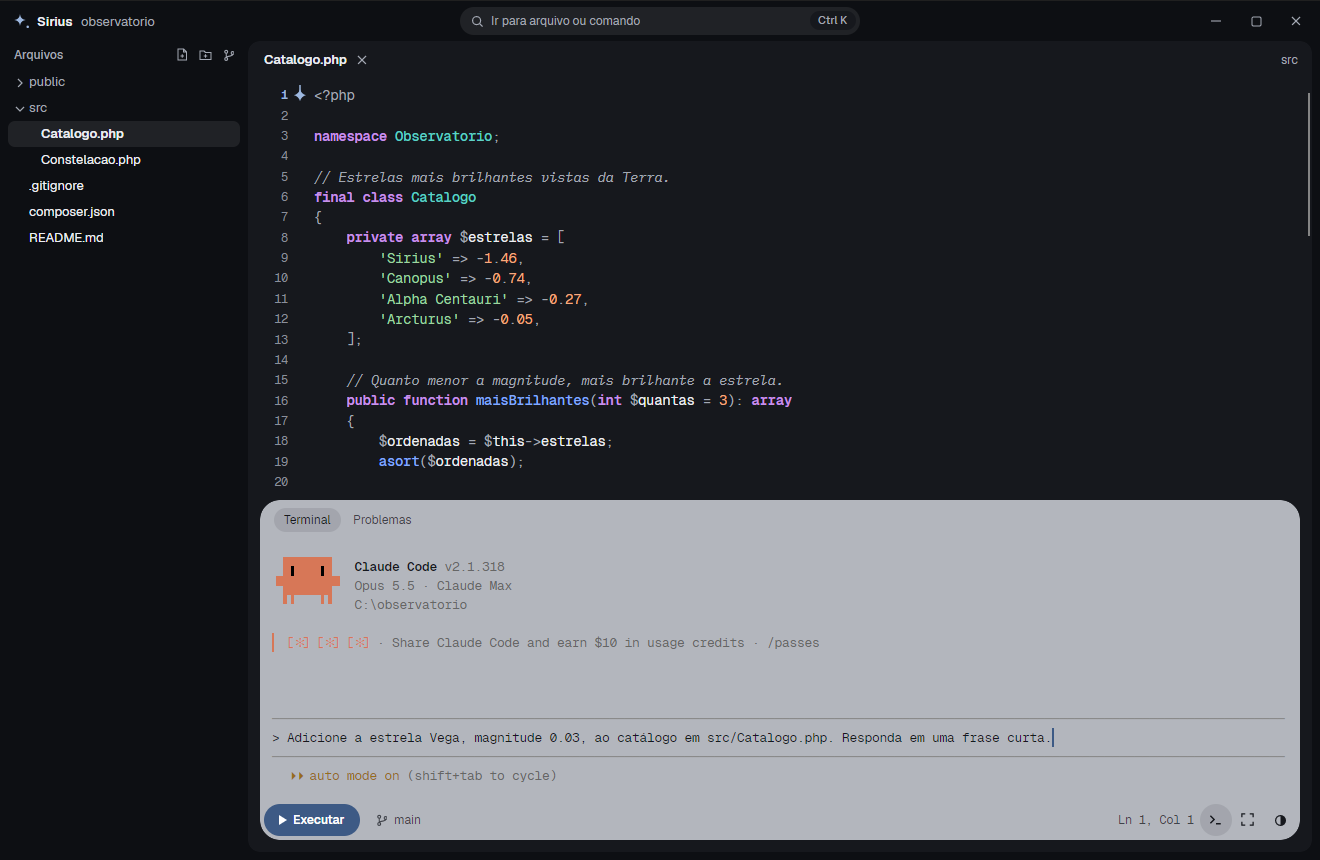
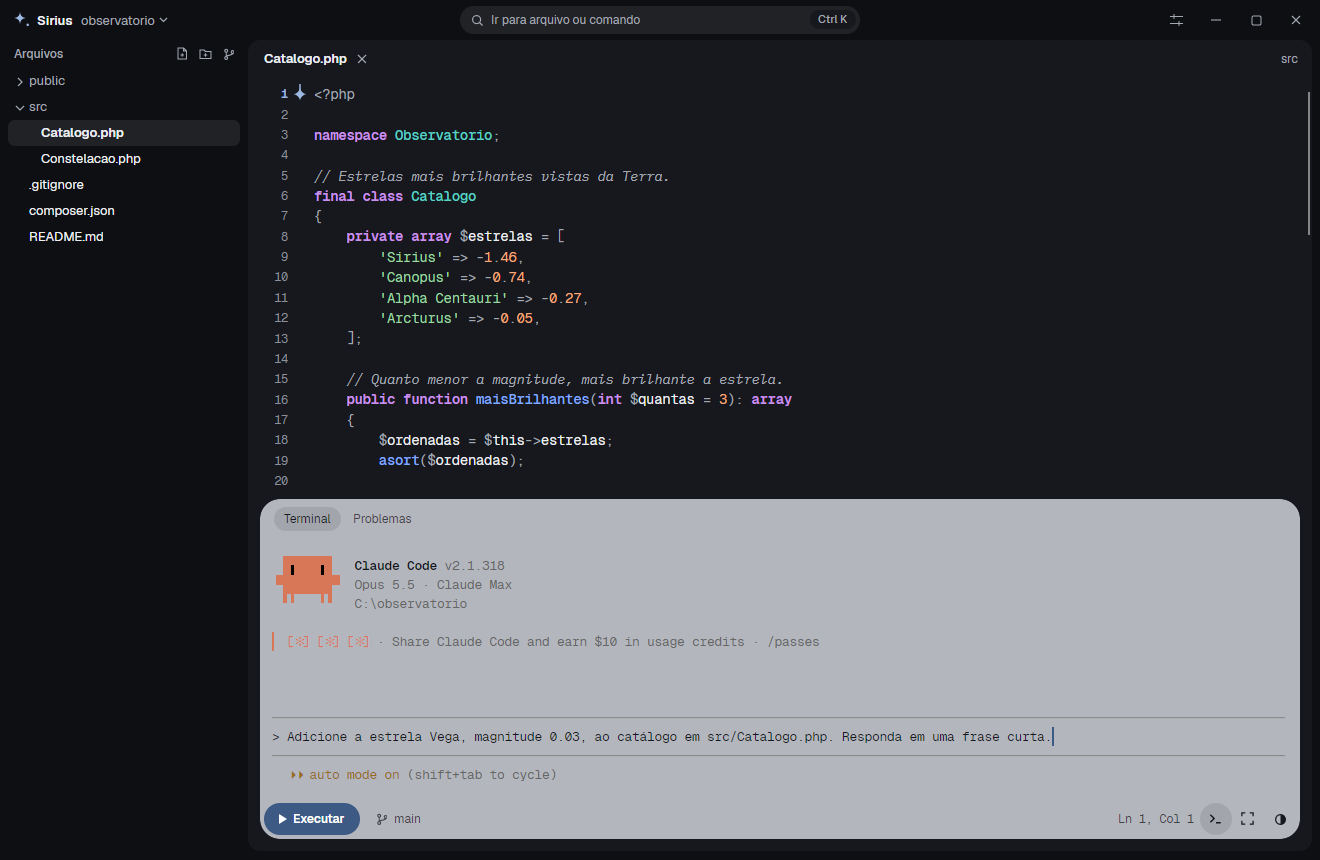
Prints novos, prévia do GitHub e textos do site e do README
Os prints mostram a interface de hoje: o botão de ajustes no topo, a pilha
de chamadas e uma expressão vigiada na depuração. A janela desenhada no site
ganhou os dois. Os textos falam de conflitos, condição, vigiar, Apache e usos.

diff --git a/docs/index.html b/docs/index.html
@@ -101,7 +101,7 @@
       <div class="win-title">
         <span class="win-name"><svg><use href="#estrela-dupla"/></svg><b>Sirius</b> observatorio</span>
         <span class="win-search">Ir para arquivo ou comando</span>
-        <span class="win-controls"><svg viewBox="0 0 10 10"><path d="M0 5H10"/></svg><svg viewBox="0 0 10 10"><path d="M2 .5H8A1.500 1.500 0 0 1 9.500 2V8A1.500 1.500 0 0 1 8 9.500H2A1.500 1.500 0 0 1 .5 8V2A1.500 1.500 0 0 1 2 .5Z"/></svg><svg viewBox="0 0 10 10"><path d="M1 1L9 9M9 1L1 9"/></svg></span>
+        <span class="win-controls"><svg class="win-settings" viewBox="0 0 13 12"><path d="M0 2.500H13M0 9.500H13M4 0V5M9 7V12"/></svg><svg viewBox="0 0 10 10"><path d="M0 5H10"/></svg><svg viewBox="0 0 10 10"><path d="M2 .5H8A1.500 1.500 0 0 1 9.500 2V8A1.500 1.500 0 0 1 8 9.500H2A1.500 1.500 0 0 1 .5 8V2A1.500 1.500 0 0 1 2 .5Z"/></svg><svg viewBox="0 0 10 10"><path d="M1 1L9 9M9 1L1 9"/></svg></span>
       </div>
       <div class="win-body">
         <div class="win-tree">
@@ -145,9 +145,18 @@
                 <p>[Thu Nov  5 21:10:03 2026] [::1]:52114 Closing</p>
               </div>
               <div class="sheet-vars">
-                <p><i>›</i><b>$estrelas</b><span>array(2)</span><small>array</small></p>
-                <p><b>$nome</b><span>'Vega'</span><small>string</small></p>
-                <p><i>›</i><b>$_GET</b><span>array(1)</span><small>array</small></p>
+                <div class="vars-calls">
+                  <h4>Chamadas</h4>
+                  <p class="on"><b>magnitude()</b><small>index.php:8</small></p>
+                  <p><b>Arquivo principal</b><small>index.php:12</small></p>
+                </div>
+                <div class="vars-list">
+                  <p class="vars-add">+ Vigiar expressão</p>
+                  <p><b>count($estrelas)</b><span>2</span><small>int</small></p>
+                  <p><i>›</i><b>$estrelas</b><span>array(2)</span><small>array</small></p>
+                  <p><b>$nome</b><span>'Vega'</span><small>string</small></p>
+                  <p><i>›</i><b>$_GET</b><span>array(1)</span><small>array</small></p>
+                </div>
               </div>
             </div>
             <div class="bar">
@@ -172,10 +181,10 @@
     <article class="card wide reveal">
       <div class="card-text">
         <h3>Depuração de PHP de verdade.</h3>
-        <p>Avance linha por linha, entre nas funções, veja quem chamou cada uma e pare o mouse sobre uma variável para ver o valor. O Xdebug é baixado na primeira vez, se você aceitar, sem mexer na sua instalação do PHP.</p>
+        <p>Avance linha por linha, entre nas funções, veja quem chamou cada uma e pare o mouse sobre uma variável para ver o valor. Pare só quando uma condição for verdadeira e vigie expressões a cada parada. Funciona pelo Executar e também nas páginas do Apache. O Xdebug é baixado na primeira vez, se você aceitar.</p>
       </div>
       <div class="shot">
-        <img class="for-grafite" loading="lazy" src="screenshot-depuracao.png" width="1320" height="860" alt="Sirius parada em uma linha de PHP dentro de uma função, com a linha destacada e as variáveis na cápsula">
+        <img class="for-grafite" loading="lazy" src="screenshot-depuracao.png" width="1320" height="860" alt="Sirius parada em uma linha de PHP dentro de uma função, com a linha destacada, a pilha de chamadas, uma expressão vigiada e as variáveis na cápsula">
         <img class="for-claro" loading="lazy" src="screenshot-depuracao-claro.png" width="1320" height="860" alt="A mesma parada de depuração no tema claro">
       </div>
     </article>
@@ -208,7 +217,7 @@
     <article class="card wide reveal">
       <div class="card-text">
         <h3>Git sem sair do código.</h3>
-        <p>Mudanças na árvore e na margem, comparação lado a lado, commit por arquivo, enviar, receber, branches e histórico.</p>
+        <p>Mudanças na árvore e na margem, comparação lado a lado, conflitos resolvidos com um clique, commit por arquivo, enviar, receber, branches e histórico.</p>
       </div>
       <div class="shot">
         <img loading="lazy" src="screenshot-git.png" width="1320" height="860" alt="Painel de Git com a lista de mudanças e a comparação lado a lado de um arquivo PHP">
@@ -218,7 +227,7 @@
     <article class="card reveal">
       <div class="card-text">
         <h3>Inteligência de código.</h3>
-        <p>Autocompletar, erros, definição, dicas e renomear símbolo. Se faltar o suporte a uma linguagem, a própria IDE oferece a instalação.</p>
+        <p>Autocompletar, erros, definição, todos os usos, dicas e renomear símbolo. Se faltar o suporte a uma linguagem, a própria IDE oferece a instalação.</p>
       </div>
       <ul class="chips">
         <li>PHP</li><li>HTML</li><li>CSS</li><li>JavaScript</li><li>TypeScript</li><li>Python</li><li>C#</li>

diff --git a/docs/site.css b/docs/site.css
@@ -162,6 +162,7 @@ h1 { margin: 22px auto 0; max-width: 13em; font-size: clamp(44px, 7.6vw, 108px);
 .win-search { padding: .22em 1em; width: 25em; border-radius: 1em; background: var(--tint); color: var(--muted); font-size: .92em; }
 .win-controls { display: flex; justify-content: flex-end; gap: 1.5em; }
 .win-controls svg { width: .72em; height: .72em; fill: none; stroke: var(--muted); stroke-width: 1.1; }
+.win-controls .win-settings { width: .94em; height: .87em; }
 .win-body { display: grid; grid-template-columns: 11em 1fr; height: 35.5em; padding: 0 .55em .55em 0; }
 .win-tree { padding: .4em .5em; font-size: .94em; }
 .win-tree p { padding: .3em .7em; border-radius: .45em; }
@@ -198,10 +199,15 @@ u.s { color: var(--st); text-decoration: none; } u.n { color: var(--nu); text-de
 .sheet-tabs small { margin-left: auto; font: 400 .86em "Geist Mono", monospace; display: none; }
 .sheet-run, .sheet-vars { display: none; margin-top: .75em; font: 400 .9em/1.55 "Geist Mono", monospace; overflow: hidden; }
 .sheet-run p { white-space: pre-wrap; }
-.sheet-vars p { display: grid; grid-template-columns: 1em 9em 1fr auto; padding: .08em .3em; }
-.sheet-vars p > :first-child:not(i) { grid-column: 2; }
+.vars-list p { display: grid; grid-template-columns: 1em 10.5em 1fr auto; padding: .08em .3em; white-space: nowrap; }
+.vars-list p > :first-child:not(i) { grid-column: 2; }
+.vars-list .vars-add { display: block; padding-bottom: .2em; font-family: Geist, sans-serif; color: var(--capsule-muted); }
+.vars-calls h4 { padding: 0 .3em .15em; font-weight: 600; color: var(--capsule-ink); }
+.vars-calls p { display: flex; justify-content: space-between; gap: .8em; padding: .08em .3em; border-radius: .35em; white-space: nowrap; }
+.vars-calls .on { background: var(--capsule-mark); }
 .sheet-vars i { font-style: normal; color: var(--capsule-muted); }
 .sheet-vars b { font-weight: 400; color: var(--capsule-muted); }
+.vars-calls b { color: var(--capsule-ink); }
 .sheet-vars small { color: var(--capsule-muted); font-size: .9em; }
 .bar { flex: none; display: flex; align-items: center; gap: .3em; height: 2.9em; padding: .25em; white-space: nowrap; }
 .bar-run { display: flex; align-items: center; gap: .55em; height: 100%; padding: 0 1.05em 0 .95em; border-radius: 1.2em; background: var(--run); color: var(--run-ink); font-weight: 600; flex: none; }
@@ -234,15 +240,16 @@ u.s { color: var(--st); text-decoration: none; } u.n { color: var(--nu); text-de
 .win[data-stage="1"] .sheet-run p:nth-child(4) { animation-delay: .9s; }
 @keyframes linha { from { opacity: 0; transform: translateY(5px); } }
 /* Passo 3: a parada */
-.win[data-stage="2"] .sheet-vars { display: block; }
+.win[data-stage="2"] .sheet-vars { display: grid; grid-template-columns: 16.5em 1fr; gap: 1.6em; align-items: start; }
 .win[data-stage="2"] .info-vars { display: block; }
 .win[data-stage="2"] .bar-debug { display: flex; }
 .win[data-stage="2"] .bar-branch { display: none; }
 .win[data-stage="2"] .paused-band { opacity: 1; }
 .win[data-stage="2"] .breakpoint { opacity: 1; transform: none; }
 .win[data-stage="2"] .sheet-vars p { animation: linha .5s both; }
-.win[data-stage="2"] .sheet-vars p:nth-child(2) { animation-delay: .1s; }
-.win[data-stage="2"] .sheet-vars p:nth-child(3) { animation-delay: .2s; }
+.win[data-stage="2"] .sheet-vars p:nth-child(3) { animation-delay: .1s; }
+.win[data-stage="2"] .vars-list p:nth-child(4) { animation-delay: .15s; }
+.win[data-stage="2"] .vars-list p:nth-child(5) { animation-delay: .2s; }
 
 /* Seções */
 .band { padding: clamp(80px, 12vh, 150px) 20px; background: var(--alt); }

diff --git a/README.md b/README.md
@@ -31,7 +31,7 @@ IDE **nativa** para Windows, simples e direta, sem WebView nem Electron. Editor,
 - **Barra de comando:** <kbd>Ctrl</kbd> + <kbd>K</kbd> encontra arquivos e executa ações sem tirar a mão do teclado
 - **Projeto:** árvore de arquivos para criar, renomear e excluir, com busca e substituição em todo o projeto
 - **Terminal integrado:** a cápsula flutuante se abre em um terminal completo. O botão Executar detecta o comando do projeto, e os erros da saída são clicáveis. Em PHP, ele sobe o servidor e oferece abrir o site no navegador, ou o arquivo em uso em pastas sem `index.php`. Se o computador não tiver PHP, oferece a instalação
-- **Depuração de PHP:** clique na margem para marcar uma linha, execute e abra a página. A Sirius para ali e mostra o valor de cada variável, inclusive `$_POST` e `$_GET`, também ao parar o mouse sobre ela, além do que a página já escreveu. Você avança linha por linha, entra nas funções e vê a pilha de chamadas: clicar em quem chamou leva àquela linha e mostra as variáveis de lá. Um ponto pode parar só quando uma condição for verdadeira, como `$i == 5` (botão direito no ponto), e "Vigiar expressão" acompanha valores como `$total * 2` a cada parada. Páginas abertas pelo Apache também param, por "Depurar páginas do servidor" na barra de comando. O Xdebug é baixado na primeira vez, se você aceitar
+- **Depuração de PHP:** clique na margem para marcar uma linha, execute e abra a página. A Sirius para ali e mostra o valor de cada variável, inclusive `$_POST` e `$_GET`, também ao parar o mouse sobre ela, além do que a página já escreveu. Você avança linha por linha, entra nas funções e vê a pilha de chamadas: clicar em quem chamou leva àquela linha e mostra as variáveis de lá. Um ponto pode parar só quando uma condição for verdadeira, como `$i == 5` (botão direito no ponto), e "Vigiar expressão" acompanha valores como `$total * 2` a cada parada. Páginas abertas pelo Apache também param, por "Depurar páginas do servidor" na barra de comando: a cápsula mostra "Ouvindo o servidor", e a escuta continua ligada, mesmo depois de fechar e abrir a Sirius, até você pedir para parar. O Xdebug é baixado na primeira vez, se você aceitar
 - **Inteligência de código:** autocompletar, erros no código, ir para a definição, encontrar todos os usos, dicas e renomear símbolo. Se faltar o suporte a uma linguagem, a própria IDE oferece a instalação
 - **Git:** mudanças na árvore e na margem, comparação lado a lado, conflitos resolvidos com um clique em cada trecho ("Ficar com o meu", "Ficar com o recebido" ou "Juntar os dois"), commit por arquivo, descartar, enviar, receber, branches e histórico de commits, com o que mudou em cada um. Se o computador não tiver Git, oferece a instalação
 - **Sessão:** cada pasta reabre as suas abas, e a IDE acompanha o que outros programas mudam no disco. As pastas recentes ficam na tela inicial e no nome da pasta, no topo da janela
@@ -155,6 +155,7 @@ Para gerar o instalador, instale também o [Inno Setup 6](https://jrsoftware.org
 
 - Só funciona no Windows: o terminal, o instalador e a integração com o Explorer são específicos dele.
 - A depuração é só de PHP. Para páginas do Apache, ele precisa ser reiniciado depois de ligar o Xdebug.
+- O Xdebug só para em linhas com código PHP. Um ponto numa linha só de HTML vai para a próxima linha com PHP, e uma linha com dois comandos, como `$a = 1; $b = 2;`, para uma vez em cada um.
 - Num conflito de Git, a escolha vale para o trecho inteiro. Para misturar linhas dos dois lados dentro do mesmo trecho, edite à mão depois de escolher.
 - Entre os programas de tela cheia no terminal, o Claude Code foi testado, mas o `vim` não. O terminal repassa a roda do mouse a eles, mas não os cliques.
 - GIF animado mostra só o primeiro quadro. Na prévia do SVG, imagens e fontes de outros endereços não aparecem, de propósito.
